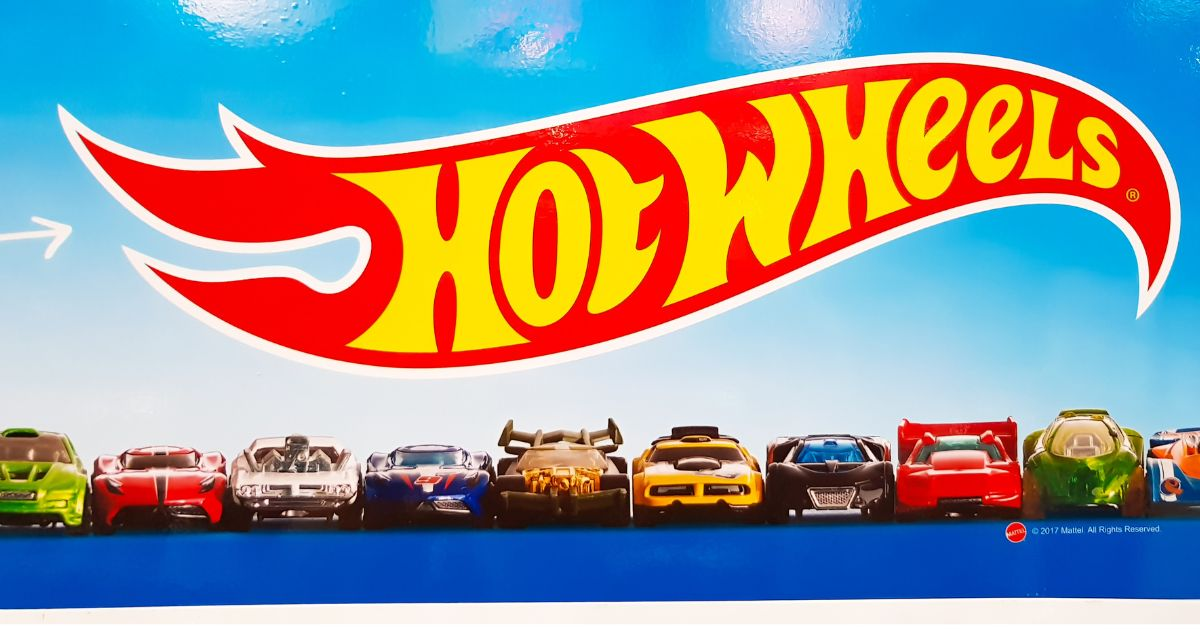
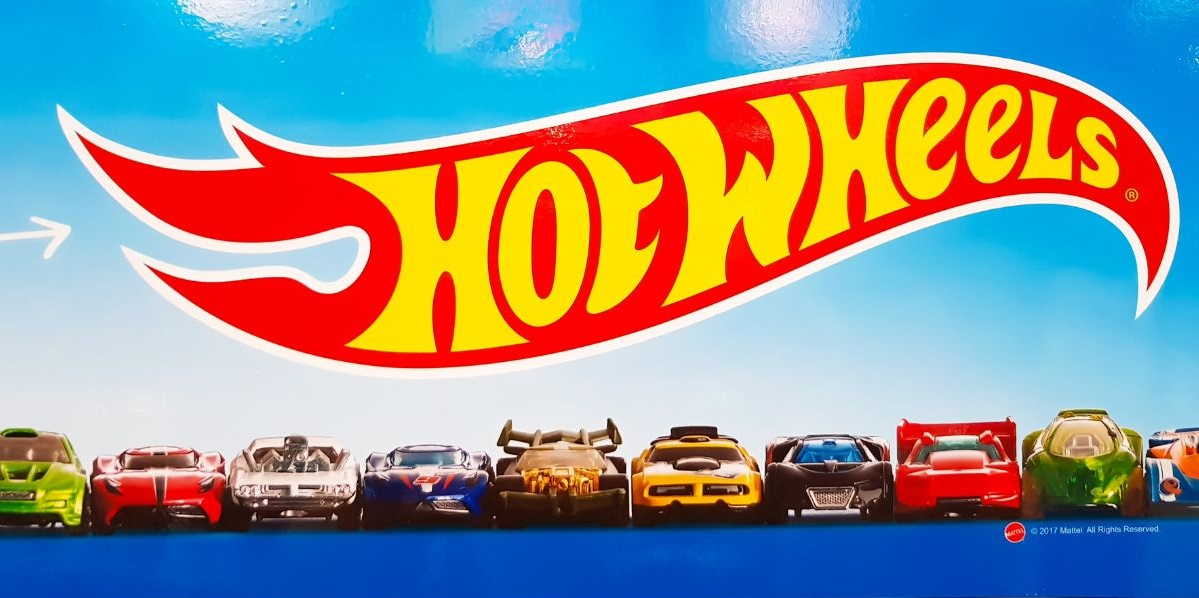
Ajustando as Imagens

diff --git a/src/styles/_hero.scss b/src/styles/_hero.scss
@@ -4,7 +4,7 @@
     width: 100%;
     height: 90vh;
     margin-top: 10vh;
-    background-image: url(../images/fundo1.jpg);
+    background-image: url(../images/fundo.jpg);
     background-repeat: no-repeat;
     background-size: 100% 100%;
     position: relative;
